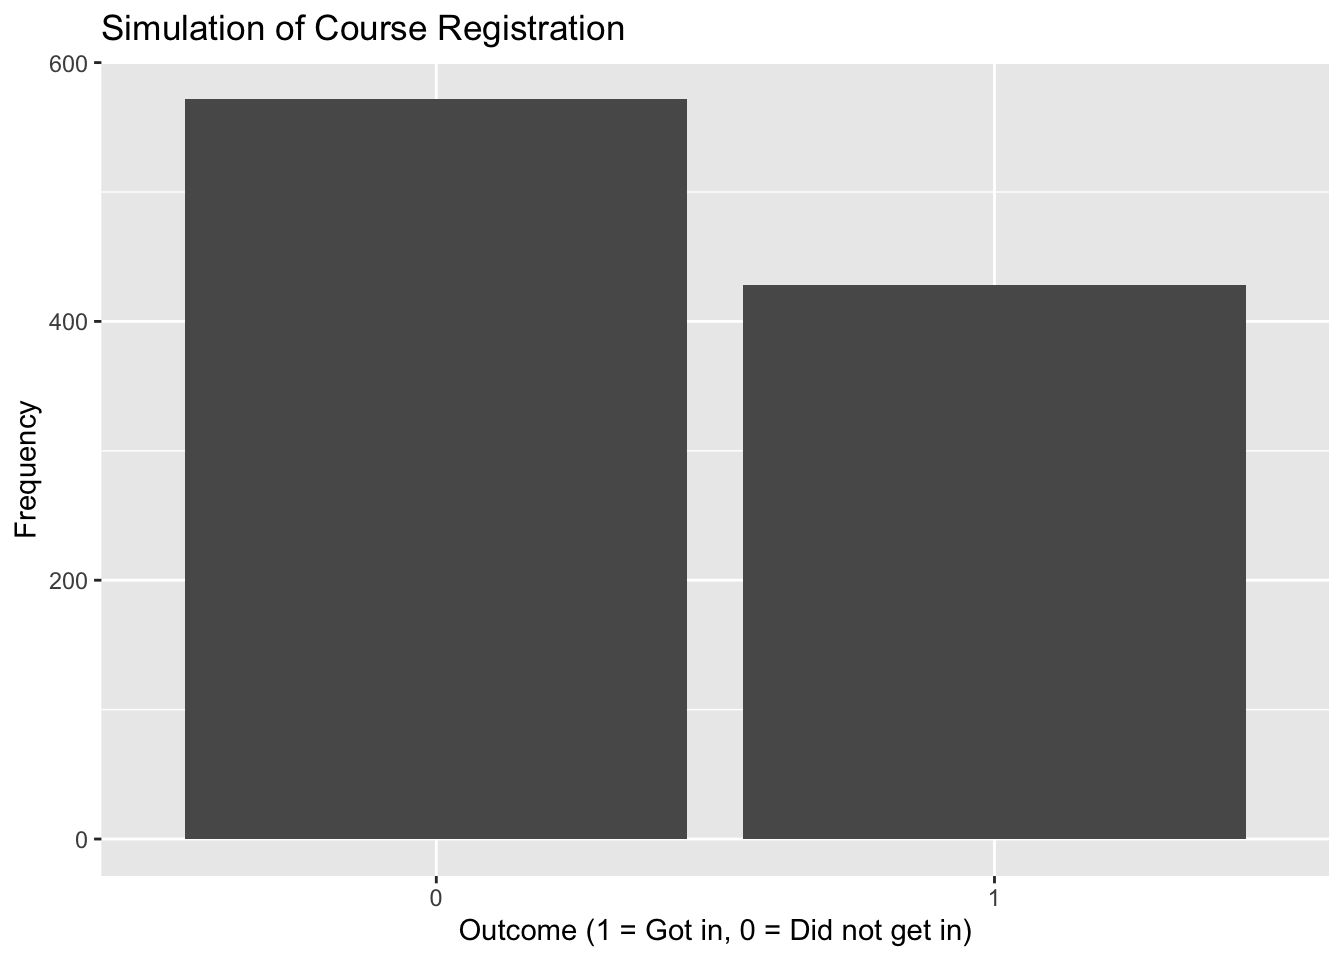
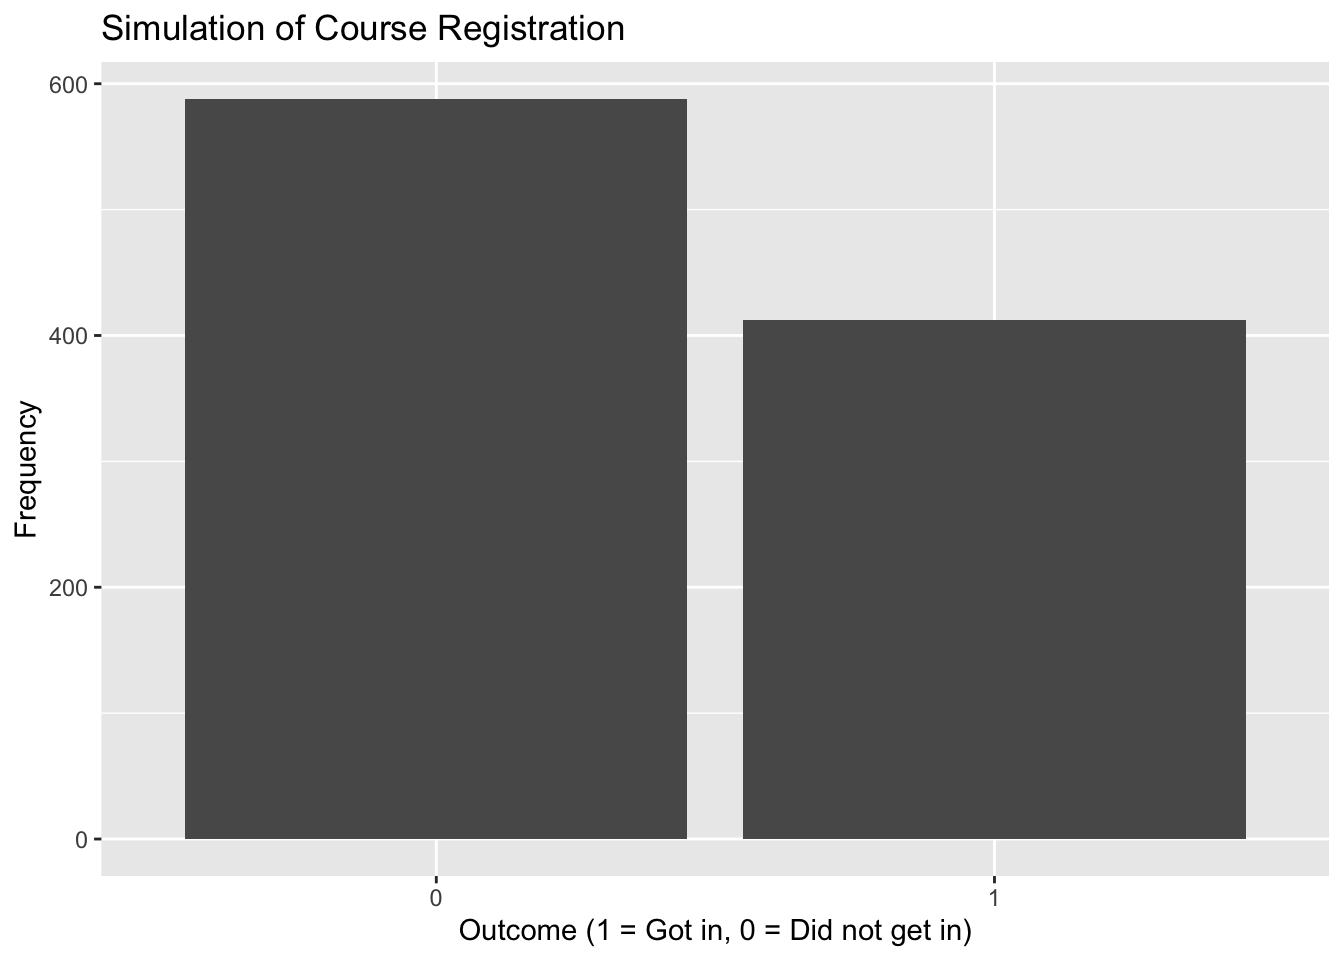
updates

diff --git a/docs/Text-Analysis.html b/docs/Text-Analysis.html
@@ -164,8 +164,15 @@ pre > code.sourceCode > span > a:first-child::before { text-decoration: underlin
 <div id="quarto-content" class="quarto-container page-columns page-rows-contents page-layout-article page-navbar">
 <!-- sidebar -->
 <!-- margin-sidebar -->
-    <div id="quarto-margin-sidebar" class="sidebar margin-sidebar zindex-bottom">
-        
+    <div id="quarto-margin-sidebar" class="sidebar margin-sidebar">
+        <nav id="TOC" role="doc-toc" class="toc-active">
+    <h2 id="toc-title">On this page</h2>
+   
+  <ul>
+  <li><a href="#part-one-first-character-of-the-production-title" id="toc-part-one-first-character-of-the-production-title" class="nav-link active" data-scroll-target="#part-one-first-character-of-the-production-title">Part One: First Character of the Production Title</a></li>
+  <li><a href="#part-two-first-number-of-the-production-title" id="toc-part-two-first-number-of-the-production-title" class="nav-link" data-scroll-target="#part-two-first-number-of-the-production-title">Part Two: First Number of the Production Title</a></li>
+  </ul>
+</nav>
     </div>
 <!-- main -->
 <main class="content" id="quarto-document-content">
@@ -197,7 +204,9 @@ pre > code.sourceCode > span > a:first-child::before { text-decoration: underlin
 <span id="cb1-5"><a href="#cb1-5" aria-hidden="true" tabindex="-1"></a></span>
 <span id="cb1-6"><a href="#cb1-6" aria-hidden="true" tabindex="-1"></a>show_col_types <span class="ot">=</span> <span class="cn">FALSE</span></span></code><button title="Copy to Clipboard" class="code-copy-button"><i class="bi"></i></button></pre></div>
 </div>
-<p>So for this project, we will be looking at the Netflix products that are filmed in United states only.</p>
+<section id="part-one-first-character-of-the-production-title" class="level2">
+<h2 class="anchored" data-anchor-id="part-one-first-character-of-the-production-title">Part One: First Character of the Production Title</h2>
+<p>For this project, we will be looking at the Netflix products that are filmed in United states only. In order to accomplish this, we apply a filter in the country column that detect strings “United States”, and remove anything that has n/a by filtering as well. For the purpose of out project, the three main variables we need will be the title, country, and the type of the Netflix product, thus, we use select to select these variables.</p>
 <div class="cell">
 <div class="sourceCode cell-code" id="cb2"><pre class="sourceCode r code-with-copy"><code class="sourceCode r"><span id="cb2-1"><a href="#cb2-1" aria-hidden="true" tabindex="-1"></a><span class="fu">library</span>(dplyr)</span>
 <span id="cb2-2"><a href="#cb2-2" aria-hidden="true" tabindex="-1"></a><span class="fu">library</span>(stringr)</span>
@@ -207,7 +216,8 @@ pre > code.sourceCode > span > a:first-child::before { text-decoration: underlin
 <span id="cb2-6"><a href="#cb2-6" aria-hidden="true" tabindex="-1"></a>  <span class="fu">select</span>(title, country, type) <span class="sc">|&gt;</span> </span>
 <span id="cb2-7"><a href="#cb2-7" aria-hidden="true" tabindex="-1"></a>  <span class="fu">filter</span>(<span class="sc">!</span><span class="fu">is.na</span>(everything))</span></code><button title="Copy to Clipboard" class="code-copy-button"><i class="bi"></i></button></pre></div>
 </div>
-<p>Next, we will find out the first letter of the Netflix productions, and calculate the occurrences of each letter in the Netflix productions</p>
+<p>Now we have obtain the relevant information, we will find out the first letter of the Netflix productions, and calculate the occurrences of each letter in the Netflix productions.</p>
+<p>To do this, we apply filter to detect any titles that starts with any character from A to Z. We don’t necessarily need to worry about case-sensitivity here since we are dealing with the first letter of the title which will always be capitalized already. Then I extract the first character from all the titles and further group by the characters to count them.</p>
 <div class="cell">
 <div class="sourceCode cell-code" id="cb3"><pre class="sourceCode r code-with-copy"><code class="sourceCode r"><span id="cb3-1"><a href="#cb3-1" aria-hidden="true" tabindex="-1"></a>N_firstword <span class="ot">&lt;-</span> USfilms <span class="sc">|&gt;</span></span>
 <span id="cb3-2"><a href="#cb3-2" aria-hidden="true" tabindex="-1"></a><span class="fu">filter</span>(<span class="fu">str_detect</span>(title, <span class="st">"^[A-Z]"</span>)) <span class="sc">|&gt;</span></span>
@@ -234,14 +244,14 @@ pre > code.sourceCode > span > a:first-child::before { text-decoration: underlin
 # ℹ 3,231 more rows</code></pre>
 </div>
 </div>
-<p>Now we can visualize it!</p>
+<p>With the information of each letter and the occurrences now we can visualize it by using a ggplot to create a bar chart!</p>
 <div class="cell">
 <div class="sourceCode cell-code" id="cb5"><pre class="sourceCode r code-with-copy"><code class="sourceCode r"><span id="cb5-1"><a href="#cb5-1" aria-hidden="true" tabindex="-1"></a><span class="fu">library</span>(ggplot2)</span>
 <span id="cb5-2"><a href="#cb5-2" aria-hidden="true" tabindex="-1"></a></span>
 <span id="cb5-3"><a href="#cb5-3" aria-hidden="true" tabindex="-1"></a><span class="fu">ggplot</span>(N_firstword, <span class="fu">aes</span>(<span class="at">x=</span> first_word, <span class="at">fill=</span>type)) <span class="sc">+</span></span>
 <span id="cb5-4"><a href="#cb5-4" aria-hidden="true" tabindex="-1"></a>   <span class="fu">geom_bar</span>() <span class="sc">+</span></span>
 <span id="cb5-5"><a href="#cb5-5" aria-hidden="true" tabindex="-1"></a>  <span class="fu">labs</span>(<span class="at">title =</span> <span class="st">"Occurrences of different first letter in US Netflix Productions"</span>,</span>
-<span id="cb5-6"><a href="#cb5-6" aria-hidden="true" tabindex="-1"></a>       <span class="at">x =</span> <span class="st">"First Letter (A ~Z)"</span>,</span>
+<span id="cb5-6"><a href="#cb5-6" aria-hidden="true" tabindex="-1"></a>       <span class="at">x =</span> <span class="st">"First Letter of the title (A ~Z)"</span>,</span>
 <span id="cb5-7"><a href="#cb5-7" aria-hidden="true" tabindex="-1"></a>       <span class="at">y =</span> <span class="st">"Number of Occurrences"</span>) </span></code><button title="Copy to Clipboard" class="code-copy-button"><i class="bi"></i></button></pre></div>
 <div class="cell-output-display">
 <div>
@@ -251,8 +261,11 @@ pre > code.sourceCode > span > a:first-child::before { text-decoration: underlin
 </div>
 </div>
 </div>
-<p>So according to the list, the most first letter in the US Netflix production is “T” which is pretty easy to understand since most of the movie may start with the word ‘The’.</p>
-<p>Now I am wondering about how much US netflix production are starting in numbers and their occurrences.</p>
+<p>According to the graph, the most frequent first letter in the US Netflix production is “T” with a somewhat balanced distribution between movies and TV shows, the reason behind this is pretty easy to understand since most of the movie and TV shows may start with the word ‘The’.</p>
+</section>
+<section id="part-two-first-number-of-the-production-title" class="level2">
+<h2 class="anchored" data-anchor-id="part-two-first-number-of-the-production-title">Part Two: First Number of the Production Title</h2>
+<p>In addition to our part 1, now we are examining the different numbers as the first digit of the Netflix production title particularly the ones made in US. For this project, we can continuing using the information we obtained in the first part. However, for part two, we will use filter to detect titles that starts with a digit. Also, repeating a similar step of extracting the first digit and group by the numbers to better have a count of the occurrences.</p>
 <div class="cell">
 <div class="sourceCode cell-code" id="cb6"><pre class="sourceCode r code-with-copy"><code class="sourceCode r"><span id="cb6-1"><a href="#cb6-1" aria-hidden="true" tabindex="-1"></a>N_firstdigit <span class="ot">&lt;-</span> USfilms <span class="sc">|&gt;</span></span>
 <span id="cb6-2"><a href="#cb6-2" aria-hidden="true" tabindex="-1"></a>  <span class="fu">filter</span>(<span class="fu">str_detect</span>(title, <span class="st">"^</span><span class="sc">\\</span><span class="st">d+"</span>)) <span class="sc">|&gt;</span></span>
@@ -294,22 +307,23 @@ pre > code.sourceCode > span > a:first-child::before { text-decoration: underlin
 </div>
 </div>
 </div>
-<p>So the graph displays a pretty interesting fact, which is that the digit “1” appear the most in both movies and TV shows in US Netflix production. I suspect that the reason may be because Many documentary titles or reality shows often include a numeric element, such as rankings or competitions, and those often start with number ‘1’.</p>
-<p>Some other interesting fact is that there is no TV shows title that starts with the digit ‘4’ and there is no Movies title that starts with the digit ‘7’ in the US Netflix production.</p>
+<p>The graph also displays a pretty interesting fact, which is that the digit “1” appear the most in both movies and TV shows in US Netflix production. I suspect that the reason may be because Many documentary titles or reality shows often include a numeric element, such as rankings or competitions, and those often start with number ‘1’.</p>
+<p>Some other interesting fact is that there is no TV shows title that starts with the digit ‘2’ or ‘4’ and there is no Movies title that starts with the digit ‘7’ in the US Netflix production.</p>
 <section id="insight" class="level4">
 <h4 class="anchored" data-anchor-id="insight">Insight</h4>
 <p>The analysis of first letters in US Netflix productions reveals some intriguing patterns:</p>
 <ul>
 <li><p>Dominance of “T”: The letter “T” is the most common starting letter for titles. This is likely due to the prevalence of titles that begin with “The,” a common article in English.</p></li>
 <li><p>Prevalence of the Digit “1”: The digit “1” appears most frequently as the starting digit in both movies and TV shows.</p></li>
-<li><p>Absence of Titles Starting with Certain Digits: There are no TV shows starting with the digit “4,” possibly indicating a lack of popular content or marketing focus. Similarly, no movies begin with “7,” which may reflect industry naming trends or a scarcity of suitable productions.</p></li>
+<li><p>Absence of Titles Starting with Certain Digits: There are no TV shows starting with the digit “2” or “4,” possibly indicating a lack of popular content or marketing focus. Similarly, no movies begin with “7,” which may reflect industry naming trends or a scarcity of suitable productions.</p></li>
 </ul>
 </section>
 <section id="reference" class="level4">
 <h4 class="anchored" data-anchor-id="reference">Reference</h4>
-<p>The data set Netflix_Titles comes from <a href="https://www.kaggle.com/datasets/shivamb/netflix-shows">Kaggle</a> w/ credit to Shivam Bansal.</p>
+<p>The data set Netflix_Titles comes from <a href="https://www.kaggle.com/datasets/shivamb/netflix-shows">Kaggle</a> w/ credit to <a href="https://www.kaggle.com/shivamb">Shivam Bansal</a>, who is an experienced data science professional with a blend of full-stack engineering skills, pre-sales, and business skills. He is also a director for smaller scale video contents, to which inspired he to collect and update the data-sets for not just Netflix, but also many other video streaming platforms such as <a href="https://www.kaggle.com/datasets/shivamb/amazon-prime-movies-and-tv-shows">Amazon Prime</a> , <a href="https://www.kaggle.com/datasets/shivamb/disney-movies-and-tv-shows">Disney+</a>, and <a href="https://www.kaggle.com/datasets/shivamb/hulu-movies-and-tv-shows">Hulu</a>.</p>
 
 
+</section>
 </section>
 
 </main> <!-- /main -->

diff --git a/docs/index.html b/docs/index.html
@@ -7,7 +7,7 @@
 <meta name="viewport" content="width=device-width, initial-scale=1.0, user-scalable=yes">
 
 
-<title>Jessica (YongJie) Lin – JessicaLin92.github.io</title>
+<title>Welcome! This is Jessica’s website – JessicaLin92.github.io</title>
 <style>
 code{white-space: pre-wrap;}
 span.smallcaps{font-variant: small-caps;}
@@ -135,7 +135,8 @@ ul.task-list li input[type="checkbox"] {
     <h2 id="toc-title">On this page</h2>
    
   <ul>
-  <li><a href="#contact-information" id="toc-contact-information" class="nav-link active" data-scroll-target="#contact-information">Contact information</a></li>
+  <li><a href="#hello-nice-to-meet-you" id="toc-hello-nice-to-meet-you" class="nav-link active" data-scroll-target="#hello-nice-to-meet-you">Hello! Nice to meet you!</a></li>
+  <li><a href="#lets-stay-connected" id="toc-lets-stay-connected" class="nav-link" data-scroll-target="#lets-stay-connected">Let’s stay connected!</a></li>
   </ul>
 </nav>
     </div>
@@ -144,7 +145,7 @@ ul.task-list li input[type="checkbox"] {
 
 <header id="title-block-header" class="quarto-title-block default">
 <div class="quarto-title">
-<h1 class="title">Jessica (YongJie) Lin</h1>
+<h1 class="title">Welcome! This is Jessica’s website</h1>
 </div>
 
 
@@ -161,14 +162,20 @@ ul.task-list li input[type="checkbox"] {
 </header>
 
 
-<p><img src="https://t0.gstatic.com/licensed-image?q=tbn:ANd9GcQUV_5FvpgGgsC8N46PD4CVNiBmgTv-s6EogkH_-eCC84cTK5IewL7VruWufXXF4syZ" alt="Puppy" width="500px" style="display: block; margin-left: auto; margin-right: auto;"></p>
-<p>This is Jessica’s website.</p>
-<p>Welcome! I am a junior student at Pitzer studying Organizational Studies and Psychology, with a minor in data science.</p>
-<section id="contact-information" class="level1">
-<h1>Contact information</h1>
+<div class="quarto-figure quarto-figure-center">
+<figure class="figure">
+<p><img src="images/IMG_1062.JPG" class="img-fluid quarto-figure quarto-figure-center figure-img" width="533"></p>
+</figure>
+</div>
+<section id="hello-nice-to-meet-you" class="level1">
+<h1>Hello! Nice to meet you!</h1>
+<p>My name is Jessica, I am a international student from Taiwan, and currently a junior at Pitzer College, pursuing a combined major in Organizational Studies and Psychology with a minor in Data Science. My academic journey has equipped me with a strong understanding of human behavior and organizational dynamics, allowing me to explore the intersection of psychology and effective management practices along with my data analysis skills.</p>
+</section>
+<section id="lets-stay-connected" class="level1">
+<h1>Let’s stay connected!</h1>
 <p><a href="https://www.linkedin.com/in/jessicalinyongjie/">LinkedIn</a></p>
 <p><a href="https://github.com/JessicaLin92/jessicalin92.github.io/blob/main/docs/index.html">GitHub</a></p>
-<p><a href="jeslin@students.pitzer.edu">Email: jeslin@students.pitzer.edu</a></p>
+<p>Email:<a href="jeslin@students.pitzer.edu">jeslin@students.pitzer.edu</a></p>
 
 
 </section>

diff --git a/docs/about.html b/docs/about.html
@@ -163,18 +163,20 @@ ul.task-list li input[type="checkbox"] {
 </header>
 
 
-<section id="education" class="level1">
-<h1>Education</h1>
-<p>Bachelor of Arts (B.A.) in Organizational Studies and Psychology; Minor in Data Science.</p>
+<section id="education" class="level2">
+<h2 class="anchored" data-anchor-id="education">Education</h2>
+<p><strong>Kaohsiung American School</strong>: High School diploma</p>
+<p><strong>Pitzer College</strong>: Bachelor of Arts (B.A.) in Organizational Studies and Psychology; Minor in Data Science.</p>
 </section>
-<section id="professional-experience" class="level1">
-<h1>Professional Experience</h1>
+<section id="professional-experience" class="level2">
+<h2 class="anchored" data-anchor-id="professional-experience">Professional Experience</h2>
+<p>Admission operation Assistant</p>
 <p>International Students Orientation Assistant</p>
 <p>Student Success Assistant</p>
 <p>Academic Guide</p>
 </section>
-<section id="leaderships" class="level1">
-<h1>Leaderships</h1>
+<section id="leaderships" class="level2">
+<h2 class="anchored" data-anchor-id="leaderships">Leaderships</h2>
 <p>Pitzer International Students Association (PISA)</p>
 <p>The Pasifika Asian Student Union (PASU)</p>
 

diff --git a/docs/Simulation.html b/docs/Simulation.html
@@ -220,7 +220,7 @@ pre > code.sourceCode > span > a:first-child::before { text-decoration: underlin
 <span id="cb2-12"><a href="#cb2-12" aria-hidden="true" tabindex="-1"></a></span>
 <span id="cb2-13"><a href="#cb2-13" aria-hidden="true" tabindex="-1"></a><span class="fu">print</span>(<span class="fu">paste</span>(<span class="st">"Probability that student #1 gets a spot:"</span>, probability))</span></code><button title="Copy to Clipboard" class="code-copy-button"><i class="bi"></i></button></pre></div>
 <div class="cell-output cell-output-stdout">
-<pre><code>[1] "Probability that student #1 gets a spot: 0.428"</code></pre>
+<pre><code>[1] "Probability that student #1 gets a spot: 0.412"</code></pre>
 </div>
 </div>
 <p>After a few trials of 1000 times simulations, the general probability value we are getting are between 0.38 ~ 0.42, which basically concluded that for this course registration simulation with 50 students trying to get in a 20 spot class, the probability of getting in is around 0.4.</p>
